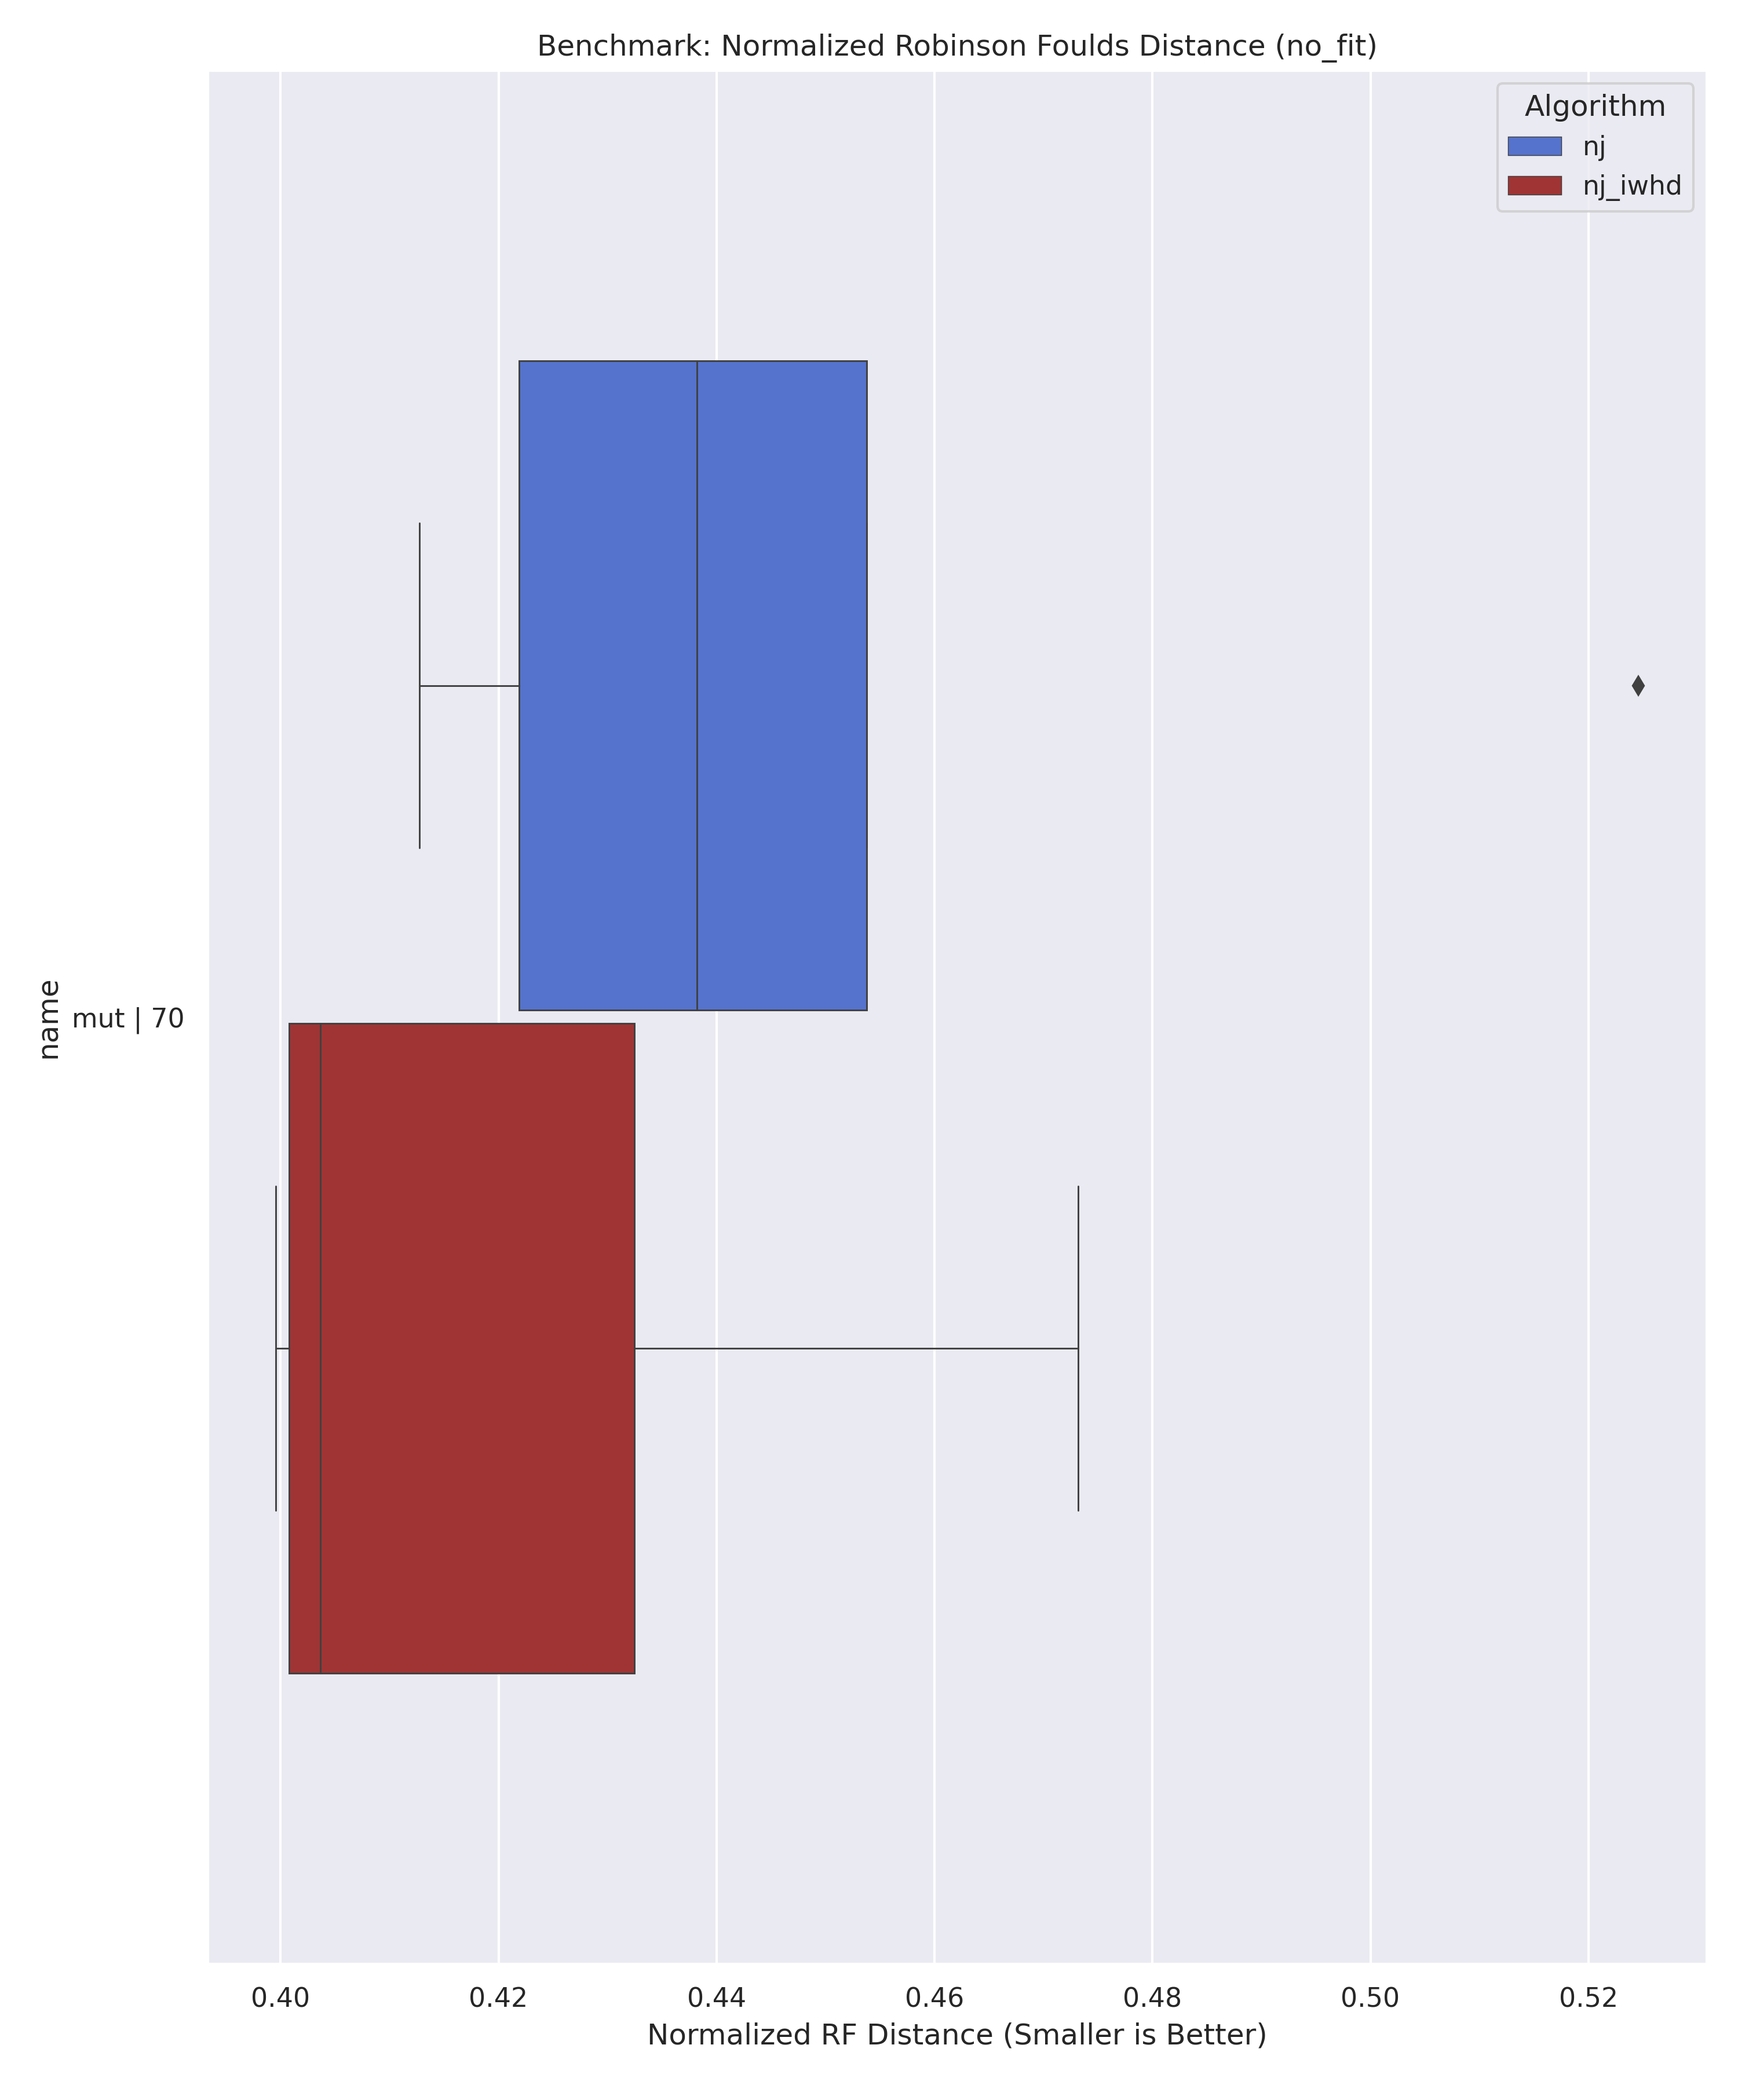
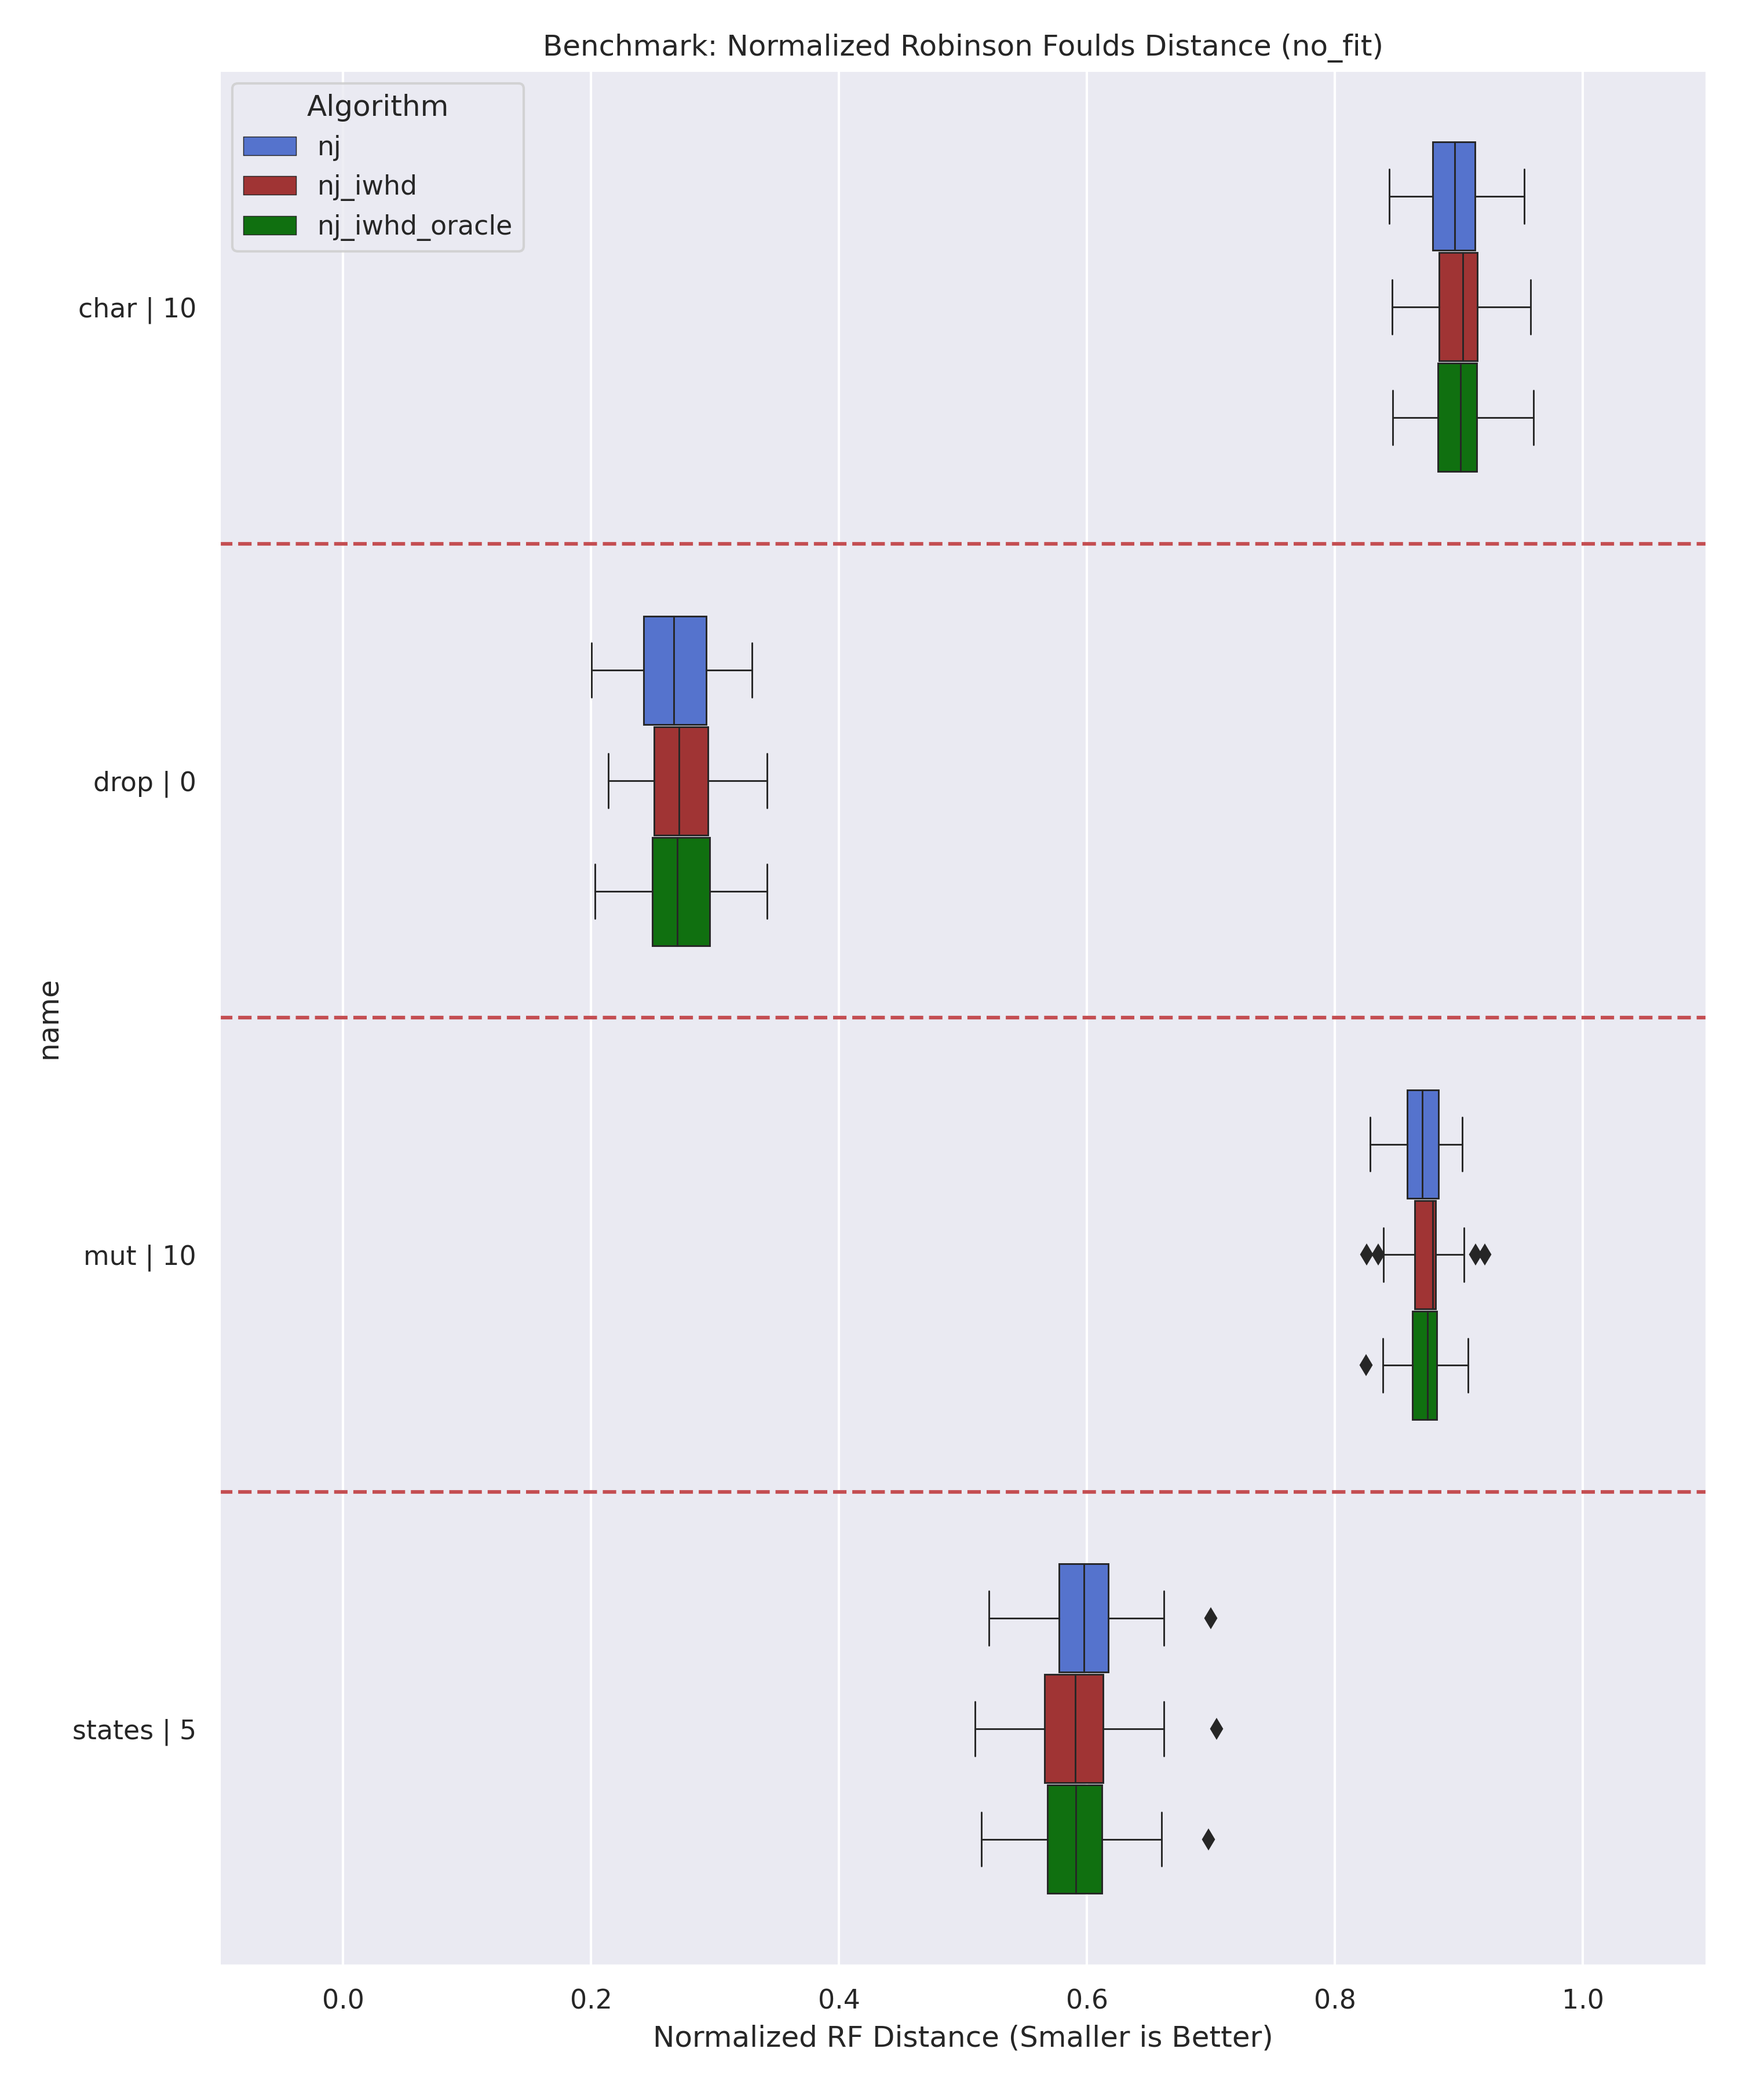
sample plot

diff --git a/src/plot_stressor_regimes.py b/src/plot_stressor_regimes.py
@@ -190,6 +190,7 @@ def _plot(
 
     # Visuals
     plt.title(title)
+    plt.xlim([-0.1, 1.1])
     plt.xlabel(x_label)
     plt.tight_layout()
     plt.savefig(outfile, dpi=300)
@@ -337,11 +338,11 @@ def plot_stressor_regimes(
                 )
 
                 # Get score
-                stressor, param = get_stressor_by_params(lt_parameters)
+                stressor_name, param = get_stressor_by_params(lt_parameters)
                 rf_data.append(
                     [
                         nfitness_regime,
-                        stressor,
+                        stressor_name,
                         param,
                         nsolver_name,
                         nseed,
@@ -356,7 +357,7 @@ def plot_stressor_regimes(
                 triplets_data.append(
                     [
                         nfitness_regime,
-                        stressor,
+                        stressor_name,
                         param,
                         nsolver_name,
                         nseed,

diff --git a/plot.py b/plot.py
@@ -1,0 +1,10 @@
+from src.plot_stressor_regimes import plot_stressor_regimes
+plot_stressor_regimes(
+    random_seeds = range(5),
+    stressors={
+        "numchars": [10],
+        "numstates": [5],
+        "mut_prop": [0.1],
+        "drop_total": [0],
+    },
+)
